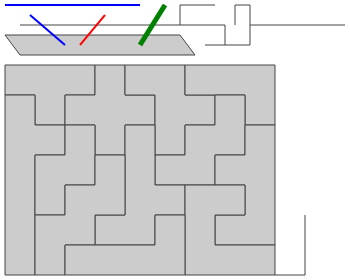
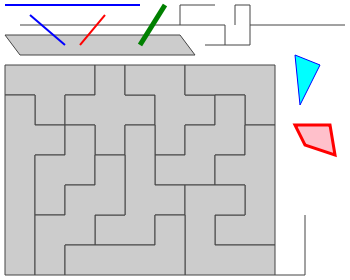
specify polygons in json section

Changed region(s): [[0.8286, 0.4286, 0.9714, 0.5714], [0.8286, 0.2, 0.9143, 0.3714]]

diff --git a/lib/ritaa/shape/polygon.rb b/lib/ritaa/shape/polygon.rb
@@ -1,8 +1,19 @@
 module Ritaa
   class Polygon < Shape
 
-    def initialize(graph)
-      @points = graph.nodes.map { |node| [node.x * 5, node.y * 10] }
+    def initialize(arg = nil)
+      case arg
+        when Hash
+          @properties = arg
+          coordinates = @properties
+            .delete(:points)
+            .split(" ")
+            .map { |s| s.split(",").map(&:to_i) }
+        when DirectedGraph
+          @properties = {}
+          coordinates = arg.nodes.map { |node| [node.x, node.y] }
+      end
+      @points = coordinates.map { |x, y| [x * 5, y * 10] }
     end
 
     def max_x; @points.map { |x, y| x }.max; end
@@ -11,6 +22,16 @@ module Ritaa
     def to_element
       e = REXML::Element.new("polygon")
       e.attributes["points"] = @points.map { |x, y| "%d,%d" % [x, y] }.join(" ")
+      styles = []
+      @properties.each do |k, v|
+        case k
+        when :id
+          e.attributes[k.to_s] = @properties[k].to_s
+        else
+          styles << "%s: %s" % [k, v]
+        end
+      end
+      e.attributes["style"] = styles.join("; ") unless styles.empty?
       e
     end
 

diff --git a/lib/ritaa/image.rb b/lib/ritaa/image.rb
@@ -112,8 +112,16 @@ module Ritaa
               .map(&:to_h)
             @shapes << Line.new(h_shape.merge(id: $1))
             @styles["#" + $1] = h_style
+          when /^(P\d+) (.*)/
+            h_shape, h_style = JSON.parse($2, symbolize_names: true)
+              .partition { |k, v| [:points].include?(k) }
+              .map(&:to_h)
+            @shapes << Polygon.new(h_shape.merge(id: $1))
+            @styles["#" + $1] = h_style
           when /^line (.*)/
             @shapes << Line.new(JSON.parse($1, symbolize_names: true))
+          when /^polygon (.*)/
+            @shapes << Polygon.new(JSON.parse($1, symbolize_names: true))
           when /^image (.*)/
             h = JSON.parse($1, symbolize_names: true)
             margin = h.delete(:margin)
